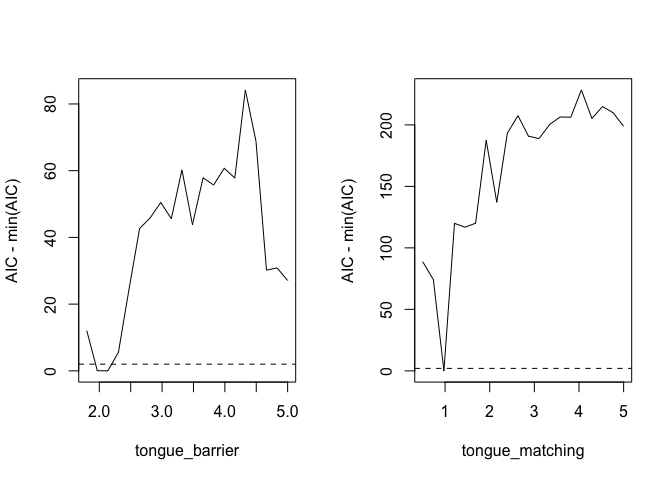
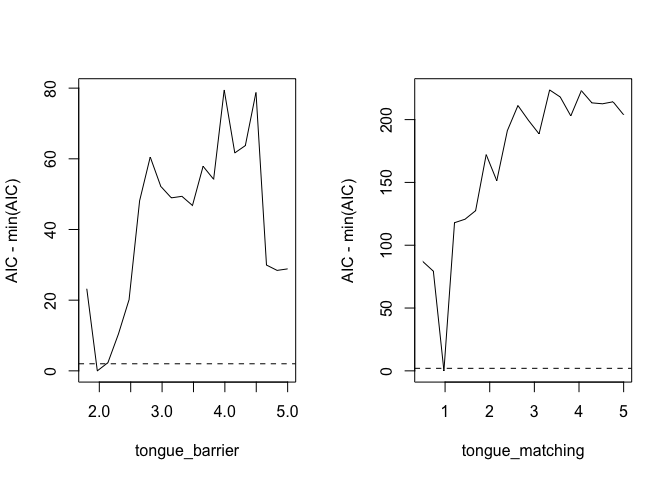
revising k and uploading competition_abund

diff --git a/Readme.md b/Readme.md
@@ -215,7 +215,7 @@ sim_net_morph=simulate_ZI_matrix(
 ```
 
     ##                   Nestedness Complementary specialization 
-    ##                   23.5254456                    0.2932923
+    ##                   23.5254456                    0.2932752
 
 Now, let’s take a look at the simulated network. Does the structure
 coincide with your expectations and what could be improved?
@@ -345,6 +345,21 @@ competition=function(tongue_match,tongue_barrier){
   return(tile_vector(var=1/rowSums(mat),by_col = T))
 }
 
+competition_abund <- function(h=hum_morph_mat, p=plant_morph_mat,
+                        a=hum_abund_mat,
+                        tongue_match = 1.0,
+                        tongue_barrier = 2.2) {
+  
+  #model or morphological matching + barrier
+  mat=absdif(h,p,tongue_match)*barrier_long_flowers(h,p,tongue_barrier)
+  
+  #sum of morphological morphological matching * aundance for each plant
+  out=rowSums(mat*a)
+  
+  #inverse means less competition for plants that have few morphological matching partners 
+  return(1/out)
+
+}
 
 #difference between the logarithmic bill and flower lengths. Discuss why such model could make ecological sense
 absdif_log=function(h=hum_morph_mat,p=plant_morph_mat,tounge=1.8){
@@ -365,9 +380,12 @@ the specified predictor matrices and parameter values.
 When we have the likelihood, we can calculate the Akaike Information
 Criterion (AIC) = 2k-2ln(likelihood), which is a statistical tool to
 compare different models. I penalize for model complexity (k) versus how
-well the model explains the data. Following Vizentin-Bugoni et
-al. (2014), we let k denote the number of plants \* the number of birds
-\* the number of predictor matrices.
+well the model explains the data. k is the number of free parameters in
+the model, meaning the number of parameters that is estimated by the
+model. So far, we are not estimating any parameters (all values, such as
+tongue lengths and predictor strength, are defined). In that case, we
+follow following Vázquez et al. 2009, we let k equal the number of
+predictor matrices in the model (k=4).
 
 Thus, the AIC helps to choose the ‘best’ model by weighing how well each
 model fits the data against its complexity—simpler models are favoured
@@ -399,12 +417,12 @@ abundance_matrix=abundance_model()
 #prepare the data
 preds=mget(c("matching_matrix","barrier_matrix","abundance_matrix","competition_matrix"))
 
-AIC=calc_AIC(preds,net)
+AIC=calc_AIC(preds,net,k = 4)
 
 print(AIC)
 ```
 
-    ## [1] 7476.62
+    ## [1] 684.6197
 
 ### Model selection with varying predictor versions
 
@@ -421,11 +439,15 @@ barrier is longer than or equal to the tongue length for morphological
 matching.
 
 Here, we also introduce parameters (c1, c2, and c3), which serve as
-control knobs for how strongly each matrix affects the outcome. C-values
+control knobs for how strongly each matrix affects the outcome. C values
 close to 0 effectively deactivate the influence of the predictor matrix
-(i.e., all interaction probabilities approx. = 1). Higher c-values
+(i.e., all interaction probabilities approx. = 1). Higher c values
 indicate that species have stronger preferences for, for instance,
 morphological matching partners (i.e. c1).
+
+Since we let R estimate the c values and tongue lengths, we need to
+redefine k (the number of free parameters in the model). Each c value
+and tongue length counts one. That would mean that full model has k=5.
 
 In this example, we calculate 20 variations of tongue lengths. For each
 combination of tongue lengths, we selected random values for c1-3,
@@ -476,7 +498,7 @@ abundance_matrix=abundance_model()^c3
 preds=mget(c("matching_matrix","competition_matrix","abundance_matrix","barrier_matrix"))
 
 #calculate AIC and extract parameter values
-result=rbind(result,data.frame(AIC=calc_AIC(preds,net),tongue_matching,tongue_barrier,c1,c2,c3))
+result=rbind(result,data.frame(AIC=calc_AIC(preds,net,k = 5),tongue_matching,tongue_barrier,c1,c2,c3))
 
 } # end loop j
 
@@ -487,16 +509,16 @@ result=result[complete.cases(result),]
 head(result)
 ```
 
-    ##        AIC tongue_matching tongue_barrier   c1   c2   c3
-    ## 2 8134.583             0.5            1.8 1.66 1.47 0.40
-    ## 3 9131.775             0.5            1.8 0.61 1.90 0.53
-    ## 4 7927.930             0.5            1.8 1.29 0.96 1.29
-    ## 5 7667.931             0.5            1.8 0.35 0.17 0.48
-    ## 6 9440.189             0.5            1.8 1.94 0.19 0.72
-    ## 7 7916.685             0.5            1.8 1.20 1.29 1.22
+    ##         AIC tongue_matching tongue_barrier   c1   c2   c3
+    ## 2  741.1133             0.5            1.8 0.31 0.38 1.03
+    ## 3  906.7729             0.5            1.8 0.89 0.88 1.33
+    ## 4 1573.8052             0.5            1.8 1.90 1.48 1.31
+    ## 5  786.7828             0.5            1.8 0.40 0.31 1.56
+    ## 6  805.1805             0.5            1.8 0.41 0.63 0.52
+    ## 7 1554.3277             0.5            1.8 1.88 1.46 1.22
 
 Now, we can visualise the best-fitting models and determine the optimal
-tongue lengths and c-values, if they exist. Since the previous function
+tongue lengths and c values, if they exist. Since the previous function
 generates multiple combinations of predictor variables for each tongue
 length, we aggregate the results to extract a single AIC value per
 tongue length level—the minimum value that corresponds to the
